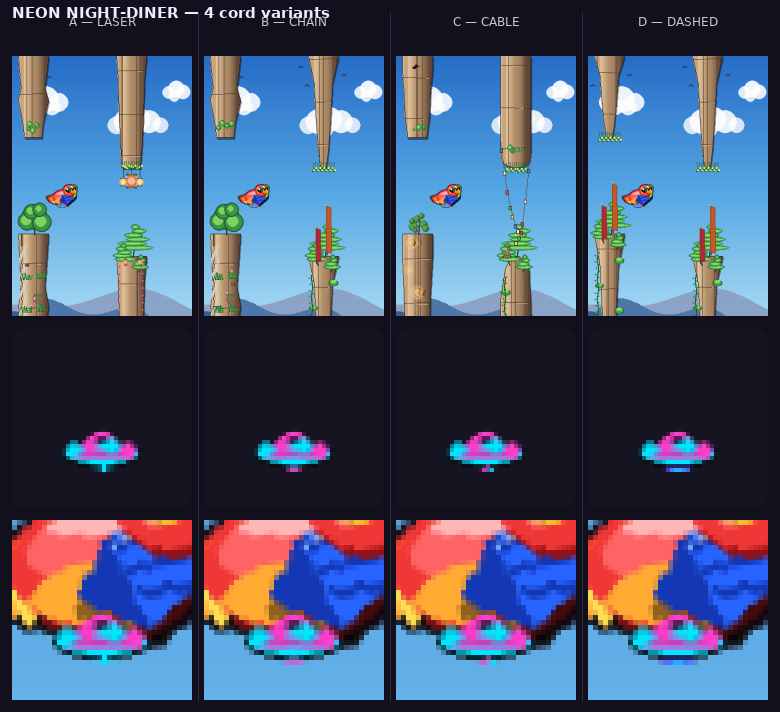
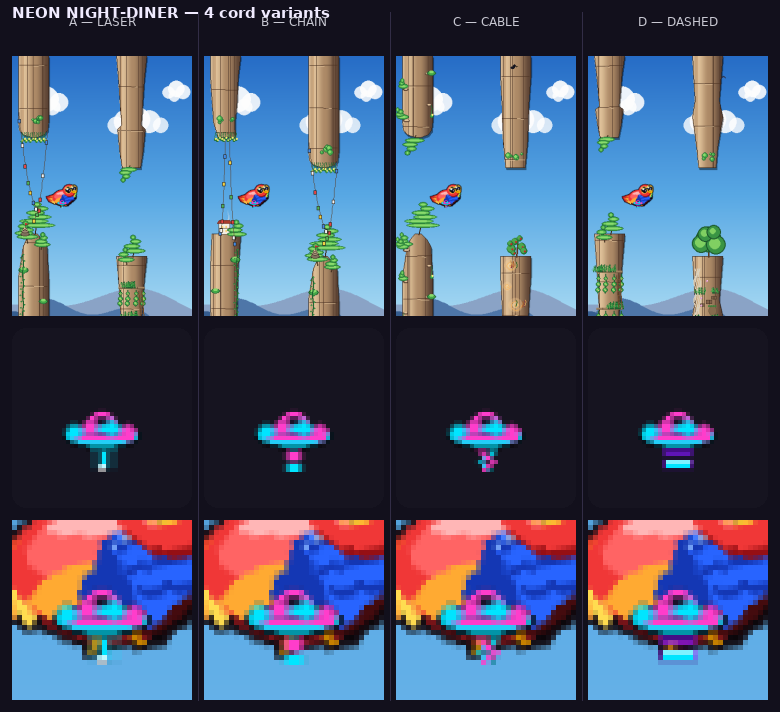
UFO parcel design_4 cords: fix disc position so all 4 cord variants are visibly distinct

diff --git a/tools/ufo_parcel_candidates/design_4_cords.py b/tools/ufo_parcel_candidates/design_4_cords.py
@@ -1,11 +1,13 @@
 """NEON NIGHT-DINER — Design 4, 4 beam/cord variants for art review.
 
-Same hull / dome / chase dots as R3. Only the tractor-beam element below the
-disc changes across the 4 variants:
-  A  LASER    — single hot cyan line with wide glow, no fill
-  B  CHAIN    — 4 linked oval rings in cyan + magenta
-  C  CABLE    — twisted two-strand rope (cyan + magenta strands crossing)
-  D  DASHED   — segmented pulsed beam (stacked filled boxes with gaps)
+Disc sits at cy=26 (centre of the 44px canvas) giving 12px of cord space
+below (SS y=31..43 → 6px at 22px display). All variants share the same
+hull/dome/rim/seam/chase-dots.
+
+  A  LASER   — single cyan laser line + wide glow bloom
+  B  CHAIN   — 3 linked oval rings alternating cyan / magenta
+  C  CABLE   — two-strand helical braid (cyan + magenta zigzag)
+  D  DASHED  — 2 violet pulse segments with a cyan-edged gap
 """
 import pygame, math
 
@@ -18,6 +20,15 @@ MAGENTA = (255, 61, 203)
 VIOLET  = (130, 20, 255)
 OUTLINE = (8, 6, 14)
 
+DISC_CY  = 26
+DISC_RX  = 18
+DISC_RY  = 5
+DOME_CY  = DISC_CY - 7
+DOME_RX  = 7
+DOME_RY  = 5
+BEAM_TOP = DISC_CY + DISC_RY    # = 31
+BEAM_BOT = SS - 2               # = 42  →  11px of cord
+
 
 def _glow_line(s, color, p1, p2, core_w=3, glow_w=6):
     g = pygame.Surface((SS, SS), pygame.SRCALPHA)
@@ -28,28 +39,26 @@ def _glow_line(s, color, p1, p2, core_w=3, glow_w=6):
 
 def _glow_ellipse(s, color, rect, core_w=3, glow_w=6):
     g = pygame.Surface((SS, SS), pygame.SRCALPHA)
-    gr = rect.inflate(2, 2)
-    pygame.draw.ellipse(g, (*color, 70), gr, glow_w)
+    pygame.draw.ellipse(g, (*color, 70), rect.inflate(2, 2), glow_w)
     s.blit(g, (0, 0))
     pygame.draw.ellipse(s, color, rect, core_w)
 
 
-def _base(beam_top, beam_bot):
-    """Draw the hull/dome/outline shared by all variants. Returns (s, cx, disc_cy, disc_rx, disc_ry)."""
-    s = pygame.Surface((SS, SS), pygame.SRCALPHA)
-    cx      = SS // 2
-    disc_cy = 35
-    disc_rx, disc_ry = 18, 5
-    dome_cx, dome_cy = cx, disc_cy - 6
-    dome_rx, dome_ry = 7, 5
+def _hull(cord_fn):
+    """Build the shared hull then call cord_fn(s, cx) to add the cord."""
+    s  = pygame.Surface((SS, SS), pygame.SRCALPHA)
+    cx = SS // 2
 
-    disc_rect = pygame.Rect(cx - disc_rx, disc_cy - disc_ry, disc_rx*2, disc_ry*2)
-    dome_rect = pygame.Rect(dome_cx - dome_rx, dome_cy - dome_ry, dome_rx*2, dome_ry*2)
+    disc_rect = pygame.Rect(cx - DISC_RX, DISC_CY - DISC_RY, DISC_RX*2, DISC_RY*2)
+    dome_rect = pygame.Rect(cx - DOME_RX, DOME_CY - DOME_RY, DOME_RX*2, DOME_RY*2)
 
-    # Dark outline under everything
+    # Draw cord FIRST so hull blit covers the join cleanly
+    cord_fn(s, cx)
+
+    # Dark outline around disc
     pygame.draw.ellipse(s, OUTLINE,
-        pygame.Rect(cx - disc_rx - 2, disc_cy - disc_ry - 2,
-                    (disc_rx+2)*2, (disc_ry+2)*2))
+        pygame.Rect(cx - DISC_RX - 2, DISC_CY - DISC_RY - 2,
+                    (DISC_RX+2)*2, (DISC_RY+2)*2))
 
     # Hull fill
     pygame.draw.ellipse(s, HULL, dome_rect)
@@ -64,150 +73,106 @@ def _base(beam_top, beam_bot):
     _glow_ellipse(s, MAGENTA, dome_rect, core_w=2, glow_w=5)
     _glow_ellipse(s, CYAN, disc_rect, core_w=3, glow_w=6)
     _glow_line(s, MAGENTA,
-        (cx - disc_rx + 3, disc_cy), (cx + disc_rx - 3, disc_cy),
+        (cx - DISC_RX + 3, DISC_CY), (cx + DISC_RX - 3, DISC_CY),
         core_w=2, glow_w=5)
 
-    # Chase dots
+    # Chase-light dots
     n = 4
     for i in range(n):
         angle = math.radians(210 + 120 * i / (n - 1))
-        dx = cx + (disc_rx - 2) * math.cos(angle)
-        dy = disc_cy + (disc_ry - 1) * math.sin(angle)
+        dx = cx + (DISC_RX - 2) * math.cos(angle)
+        dy = DISC_CY + (DISC_RY - 1) * math.sin(angle)
         col = CYAN if i % 2 == 0 else MAGENTA
         dot = pygame.Surface((SS, SS), pygame.SRCALPHA)
         pygame.draw.circle(dot, (*col, 120), (int(dx), int(dy)), 5)
         s.blit(dot, (0, 0))
         pygame.draw.circle(s, col, (int(dx), int(dy)), 3)
 
-    return s, cx, disc_cy, disc_rx, disc_ry
+    return pygame.transform.smoothscale(s, (SIZE, SIZE))
+
+
+# ── A: LASER ────────────────────────────────────────────────────────────────
+def _cord_laser(s, cx):
+    glow = pygame.Surface((SS, SS), pygame.SRCALPHA)
+    pygame.draw.line(glow, (*CYAN, 30), (cx, BEAM_TOP), (cx, BEAM_BOT), 14)
+    pygame.draw.line(glow, (*CYAN, 70), (cx, BEAM_TOP), (cx, BEAM_BOT),  6)
+    s.blit(glow, (0, 0))
+    pygame.draw.line(s, CYAN, (cx, BEAM_TOP), (cx, BEAM_BOT), 2)
+    pygame.draw.circle(s, (255, 255, 255), (cx, BEAM_BOT), 2)   # bright tip
 
 
 def build_laser(mode="normal"):
-    """A: Single hot-cyan laser line — slim, sci-fi, no fill clutter."""
-    cx      = SS // 2
-    disc_cy = 35
-    disc_ry = 5
-    beam_top = disc_cy + disc_ry
-    beam_bot = beam_top + 14
-    s, cx, disc_cy, disc_rx, disc_ry = _base(beam_top, beam_bot)
+    return _hull(_cord_laser)
 
-    # Wide glow under the line
-    glow = pygame.Surface((SS, SS), pygame.SRCALPHA)
-    pygame.draw.line(glow, (*CYAN, 35), (cx, beam_top), (cx, beam_bot), 12)
-    pygame.draw.line(glow, (*CYAN, 70), (cx, beam_top), (cx, beam_bot), 6)
-    s.blit(glow, (0, 0))
-    # Hot 2px core
-    pygame.draw.line(s, CYAN, (cx, beam_top), (cx, beam_bot), 2)
-    # Tiny bright tip dot at bottom
-    pygame.draw.circle(s, (255, 255, 255), (cx, beam_bot), 2)
 
-    return pygame.transform.smoothscale(s, (SIZE, SIZE))
+# ── B: CHAIN ────────────────────────────────────────────────────────────────
+def _cord_chain(s, cx):
+    link_w, link_h, gap = 8, 4, 2
+    n_links = 3
+    total   = n_links * link_h + (n_links - 1) * gap
+    sy      = BEAM_TOP + (BEAM_BOT - BEAM_TOP - total) // 2
+    for i in range(n_links):
+        y   = sy + i * (link_h + gap)
+        col = CYAN if i % 2 == 0 else MAGENTA
+        r   = pygame.Rect(cx - link_w // 2, y, link_w, link_h)
+        glo = pygame.Surface((SS, SS), pygame.SRCALPHA)
+        pygame.draw.ellipse(glo, (*col, 55), r.inflate(4, 4), 5)
+        s.blit(glo, (0, 0))
+        pygame.draw.ellipse(s, col, r, 2)
 
 
 def build_chain(mode="normal"):
-    """B: 4 linked oval rings (alternating cyan/magenta) — retro sci-fi chain."""
-    cx      = SS // 2
-    disc_cy = 35
-    disc_ry = 5
-    beam_top = disc_cy + disc_ry
-    beam_bot = beam_top + 14
-    s, cx, disc_cy, disc_rx, disc_ry = _base(beam_top, beam_bot)
-
-    # 4 link ovals stacked vertically; each 6px tall × 4px wide
-    link_h = 4
-    link_w = 6
-    gap    = 1
-    n_links = 4
-    total_h = n_links * link_h + (n_links - 1) * gap
-    start_y = beam_top + (beam_bot - beam_top - total_h) // 2
-
-    for i in range(n_links):
-        ly  = start_y + i * (link_h + gap)
-        col = CYAN if i % 2 == 0 else MAGENTA
-        rect = pygame.Rect(cx - link_w // 2, ly, link_w, link_h)
-        # Soft glow
-        go = pygame.Surface((SS, SS), pygame.SRCALPHA)
-        pygame.draw.ellipse(go, (*col, 60), rect.inflate(4, 4), 5)
-        s.blit(go, (0, 0))
-        # Hot ring
-        pygame.draw.ellipse(s, col, rect, 2)
-
-    return pygame.transform.smoothscale(s, (SIZE, SIZE))
+    return _hull(_cord_chain)
 
 
-def build_cable(mode="normal"):
-    """C: Twisted two-strand cord — cyan + magenta helical braid."""
-    cx      = SS // 2
-    disc_cy = 35
-    disc_ry = 5
-    beam_top = disc_cy + disc_ry + 1
-    beam_bot = beam_top + 13
-    s, cx, disc_cy, disc_rx, disc_ry = _base(beam_top - 1, beam_bot)
-
-    # Two strands weave left+right of center, crossing every 4px
-    period = 8    # pixels per half-twist (full cross every 4px)
-    amp    = 3    # ± pixels from center
-
-    steps  = beam_bot - beam_top
-    pts_c = []   # cyan strand
-    pts_m = []   # magenta strand
-    for step in range(steps + 1):
-        y  = beam_top + step
-        t  = step / period * math.pi   # phase ramps continuously
-        pts_c.append((cx + int(amp * math.sin(t)),         y))
+# ── C: CABLE ────────────────────────────────────────────────────────────────
+def _cord_cable(s, cx):
+    amp    = 4          # ± pixels each strand deviates
+    period = 10         # pixels per full twist cycle
+    pts_c, pts_m = [], []
+    for step in range(BEAM_BOT - BEAM_TOP + 1):
+        y = BEAM_TOP + step
+        t = step / period * math.pi * 2
+        pts_c.append((cx + int(amp * math.sin(t)),            y))
         pts_m.append((cx + int(amp * math.sin(t + math.pi)), y))
-
-    # Glow pass for both strands
-    glow = pygame.Surface((SS, SS), pygame.SRCALPHA)
     if len(pts_c) > 1:
-        pygame.draw.lines(glow, (*CYAN,    60), False, pts_c, 5)
-        pygame.draw.lines(glow, (*MAGENTA, 60), False, pts_m, 5)
-    s.blit(glow, (0, 0))
-    # Hot 2px core
-    if len(pts_c) > 1:
+        glo = pygame.Surface((SS, SS), pygame.SRCALPHA)
+        pygame.draw.lines(glo, (*CYAN,    55), False, pts_c, 5)
+        pygame.draw.lines(glo, (*MAGENTA, 55), False, pts_m, 5)
+        s.blit(glo, (0, 0))
         pygame.draw.lines(s, CYAN,    False, pts_c, 2)
         pygame.draw.lines(s, MAGENTA, False, pts_m, 2)
 
-    return pygame.transform.smoothscale(s, (SIZE, SIZE))
+
+def build_cable(mode="normal"):
+    return _hull(_cord_cable)
+
+
+# ── D: DASHED ───────────────────────────────────────────────────────────────
+def _cord_dashed(s, cx):
+    seg_w  = 12
+    seg_h  = 4
+    gap_h  = 3
+    n      = 2
+    total  = n * seg_h + (n - 1) * gap_h
+    sy     = BEAM_TOP + (BEAM_BOT - BEAM_TOP - total) // 2
+    colors = [VIOLET, CYAN]
+    for i in range(n):
+        y   = sy + i * (seg_h + gap_h)
+        col = colors[i]
+        r   = pygame.Rect(cx - seg_w // 2, y, seg_w, seg_h)
+        glo = pygame.Surface((SS, SS), pygame.SRCALPHA)
+        pygame.draw.rect(glo, (*VIOLET, 90), r.inflate(4, 2))
+        s.blit(glo, (0, 0))
+        pygame.draw.rect(s, col, r)
+        pygame.draw.line(s, (255, 255, 255), (r.left, r.top), (r.right, r.top), 1)
 
 
 def build_dashed(mode="normal"):
-    """D: Segmented pulse beam — stacked filled rectangles with bright-edge gaps."""
-    cx      = SS // 2
-    disc_cy = 35
-    disc_ry = 5
-    beam_top = disc_cy + disc_ry
-    beam_bot = beam_top + 14
-    s, cx, disc_cy, disc_rx, disc_ry = _base(beam_top, beam_bot)
-
-    # 3 segments separated by 1px gaps; violet fill + cyan border each
-    seg_h   = 3
-    gap_h   = 2
-    seg_w   = 10    # narrower than the old wide polygon
-    n_segs  = 3
-    total   = n_segs * seg_h + (n_segs - 1) * gap_h
-    start_y = beam_top + 2
-
-    for i in range(n_segs):
-        sy  = start_y + i * (seg_h + gap_h)
-        # Glow backing
-        glow = pygame.Surface((SS, SS), pygame.SRCALPHA)
-        pygame.draw.rect(glow, (*VIOLET, 100),
-            pygame.Rect(cx - seg_w // 2 - 2, sy - 1, seg_w + 4, seg_h + 2))
-        s.blit(glow, (0, 0))
-        # Fill
-        pygame.draw.rect(s, VIOLET,
-            pygame.Rect(cx - seg_w // 2, sy, seg_w, seg_h))
-        # Cyan bright edge line at top of each segment
-        pygame.draw.line(s, CYAN,
-            (cx - seg_w // 2, sy), (cx + seg_w // 2, sy), 1)
-        # Hot cyan center dot
-        pygame.draw.circle(s, CYAN, (cx, sy + seg_h // 2), 1)
-
-    return pygame.transform.smoothscale(s, (SIZE, SIZE))
+    return _hull(_cord_dashed)
 
 
-# Build map for the render script
+# Export for render script
 VARIANTS = [
     ("A — LASER",   build_laser),
     ("B — CHAIN",   build_chain),
